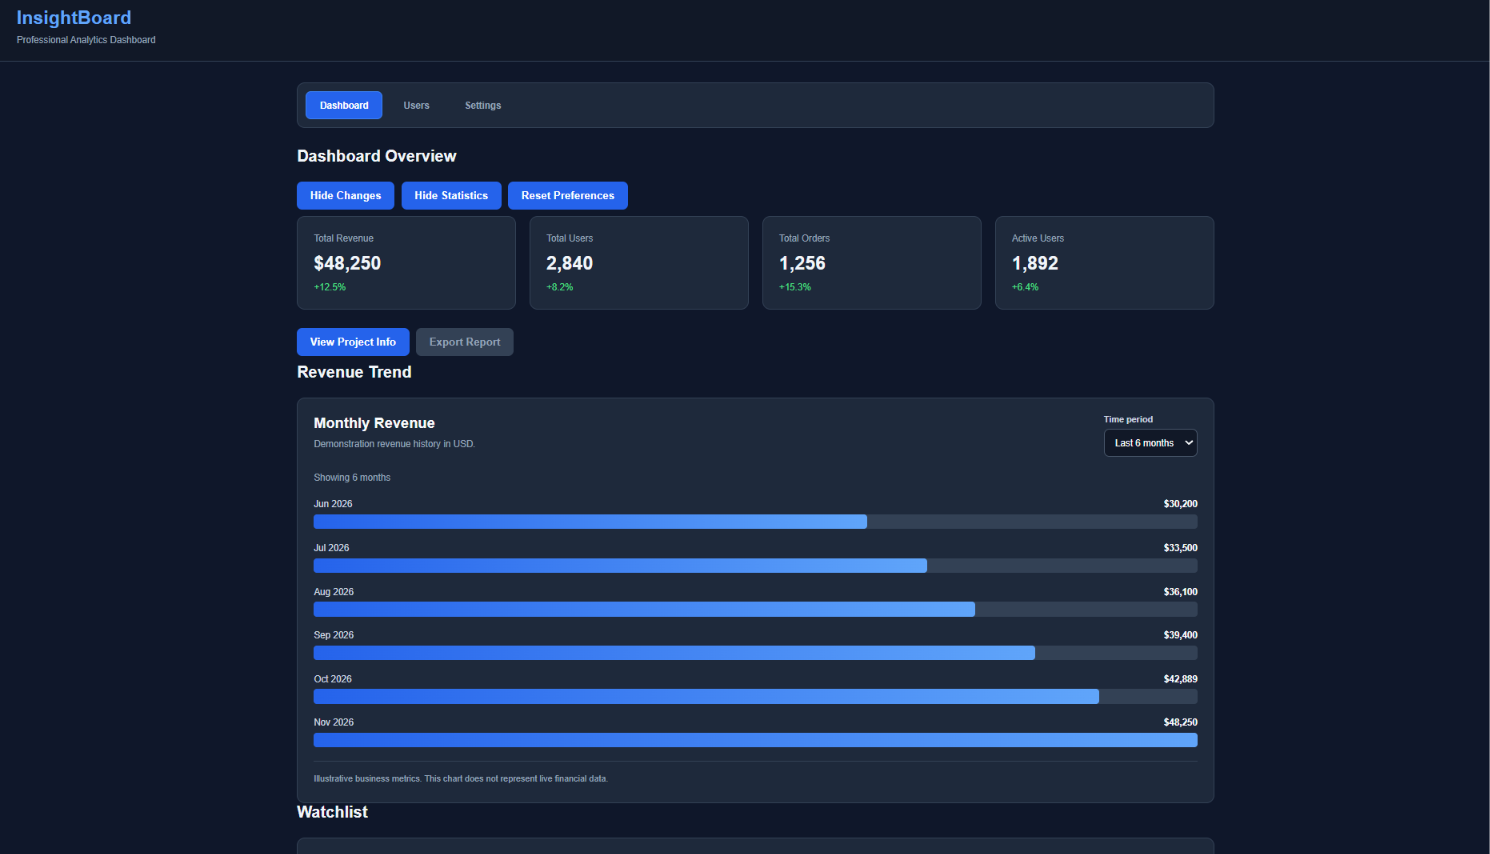
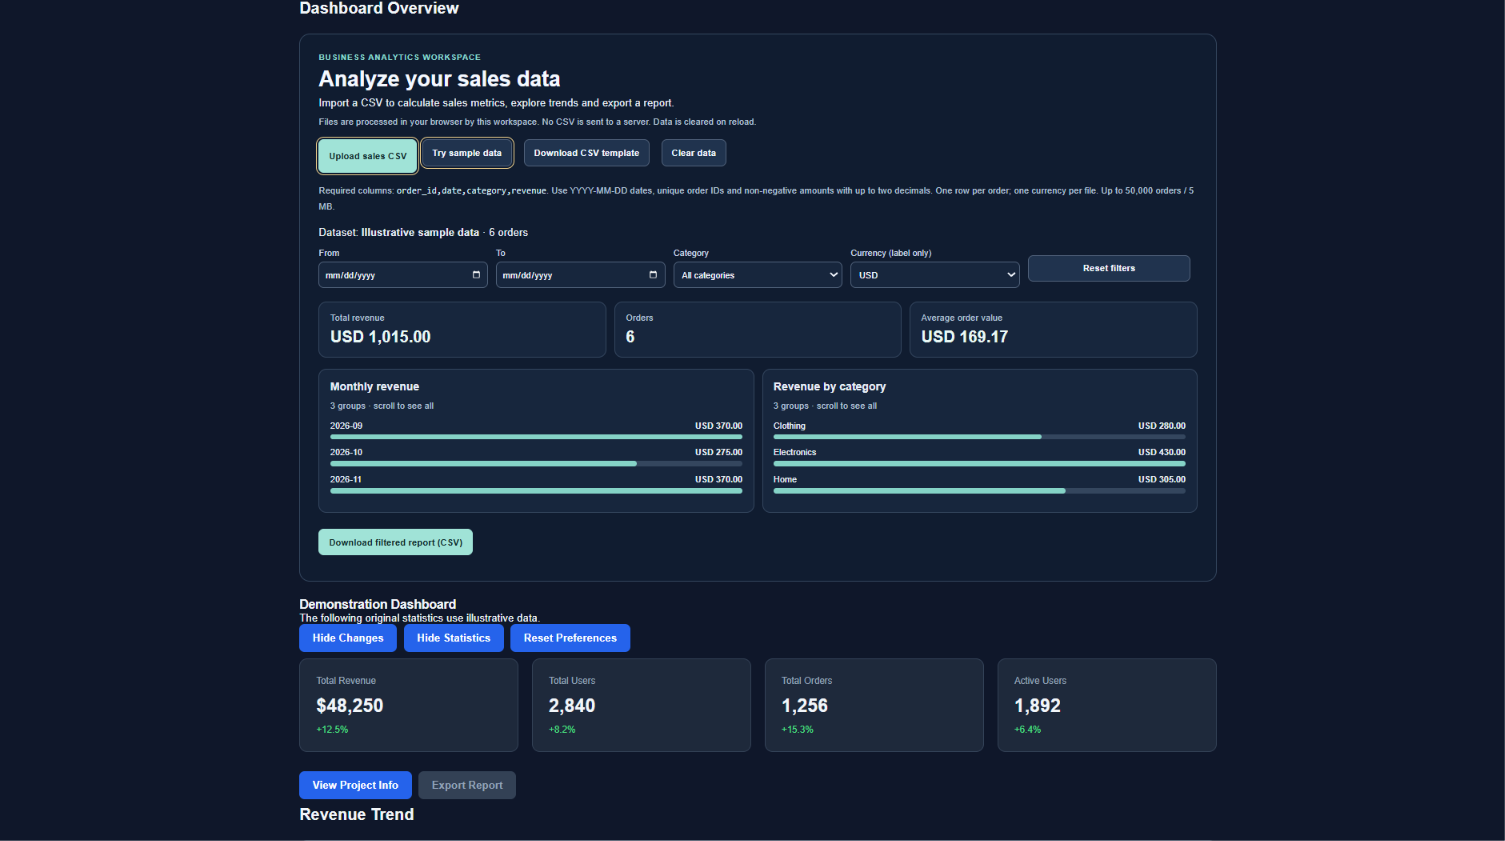
docs: showcase live InsightBoard V2 analytics

diff --git a/docs/index.html b/docs/index.html
@@ -119,11 +119,11 @@ focusable="false" style="position:absolute;pointer-events:none">
         <p id="filter-results" class="sr-only" aria-live="polite">Showing 5 projects</p>
         <div class="projects-list">
           <article class="project-card featured" data-category="data fullstack">
-            <div class="project-image"><a class="screenshot-link" href="./assets/insightboard-real.png" target="_blank" rel="noopener noreferrer" aria-label="View full-size InsightBoard screenshot in a new tab"><img src="./assets/insightboard-real.png" loading="lazy" decoding="async"  alt="Actual InsightBoard dashboard with navigation, revenue cards and monthly analysis"></a><span class="image-corner">VIEW FULL SCREENSHOT ↗</span></div>
-            <div class="project-body"><div class="project-topline"><span class="project-index">01 / DATA EXPERIENCE</span><span class="project-status live"><span class="status-dot"></span> LIVE DEMO</span></div><h3><a class="project-title-link" href="https://insightboard-sigma.vercel.app/" target="_blank" rel="noopener noreferrer">InsightBoard <span aria-hidden="true">↗</span></a></h3><p>A responsive analytics dashboard with demonstration metrics, chart views and display preferences. Its next iteration will analyze real user-provided datasets rather than only sample numbers.</p>
-              <div class="tech-tags"><span>Next.js</span><span>React</span><span>Analytics UI</span><span>Vercel</span></div>
+            <div class="project-image"><a class="screenshot-link" href="./assets/insightboard-real.png" target="_blank" rel="noopener noreferrer" aria-label="View full-size InsightBoard screenshot in a new tab"><img src="./assets/insightboard-real.png" loading="lazy" decoding="async"  alt="Actual InsightBoard V2 business analytics dashboard with CSV upload, calculated KPIs and revenue charts"></a><span class="image-corner">VIEW FULL SCREENSHOT ↗</span></div>
+            <div class="project-body"><div class="project-topline"><span class="project-index">01 / DATA EXPERIENCE</span><span class="project-status live"><span class="status-dot"></span> LIVE DEMO</span></div><h3><a class="project-title-link" href="https://insightboard-sigma.vercel.app/" target="_blank" rel="noopener noreferrer">InsightBoard <span aria-hidden="true">↗</span></a></h3><p>A responsive business analytics application that transforms user-uploaded CSV sales data into interactive dashboards, revenue insights and downloadable reports.</p>
+              <div class="tech-tags"><span>Next.js</span><span>React</span><span>CSV Analytics</span><span>Vercel</span></div>
               <div class="project-links"><a href="https://insightboard-sigma.vercel.app/" target="_blank" rel="noopener noreferrer">Open live demo <span aria-hidden="true">↗</span></a><a href="https://github.com/HasithaGayan/insightboard" target="_blank" rel="noopener noreferrer">Source code <span aria-hidden="true">↗</span></a></div>
-              <details class="project-details"><summary>Engineering notes <span aria-hidden="true">+</span></summary><div><p><strong>Focus:</strong> Dashboard UI, routing and a reliable public build. <strong>Next:</strong> CSV imports, calculated KPIs and report exports. The current displayed business figures are sample data.</p></div></details>
+              <details class="project-details"><summary>Engineering notes <span aria-hidden="true">+</span></summary><div><p><strong>Implemented:</strong> CSV validation, dynamic KPIs, monthly revenue charts, category and date filters, browser-based data processing and CSV report exports. <strong>Validated:</strong> 19 automated tests, production build and public application functionality. The screenshot uses illustrative sample data.</p></div></details>
             </div>
           </article>
           <article class="project-card" data-category="fullstack">
